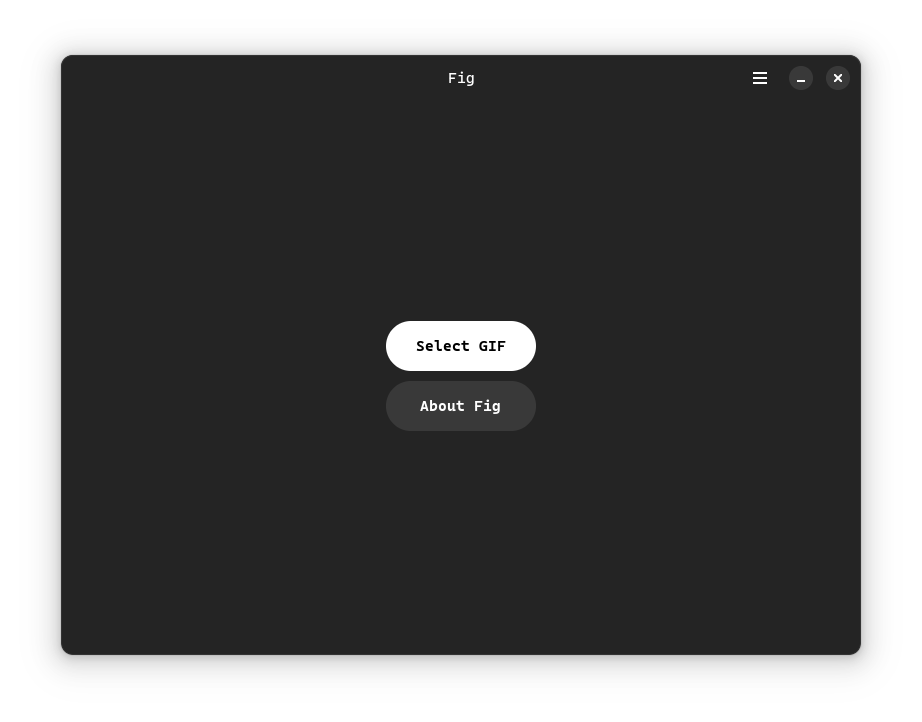
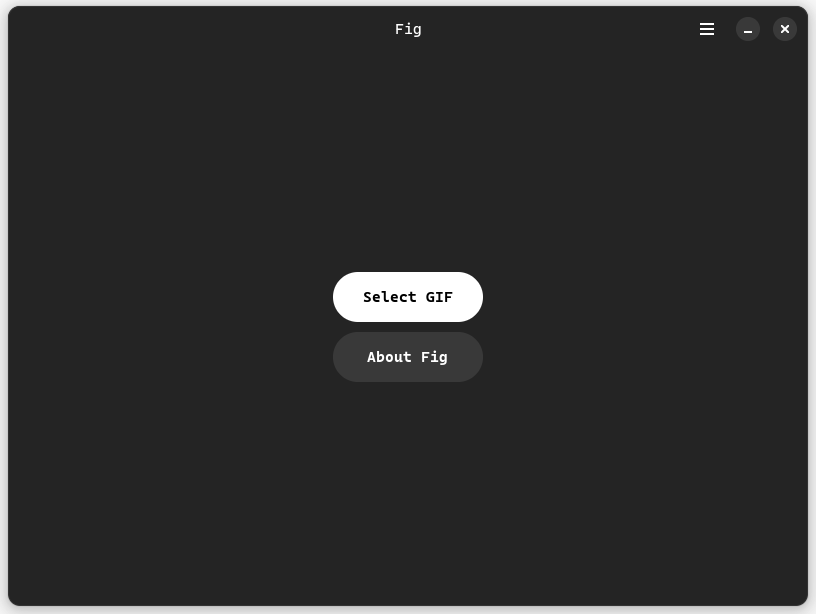
Update screenshots

diff --git a/README.md b/README.md
@@ -2,10 +2,10 @@
 
 **A simple and usable gif editor.**
 
-<div style="display: flex; gap: 10px; justify-content: center;">
-  <img src="assets/screenshot-home.png" alt="Home UI" style="max-width: 51%; height: auto;">
-  <img src="assets/screenshot-editor.png" alt="Editor UI" style="max-width: 51%; height: auto;">
-</div>
+<p>
+    <img src="assets/screenshot-home.png" width=503>
+    <img src="assets/screenshot-editor.png" width=503>
+</p>
 
 ## Todos
 
